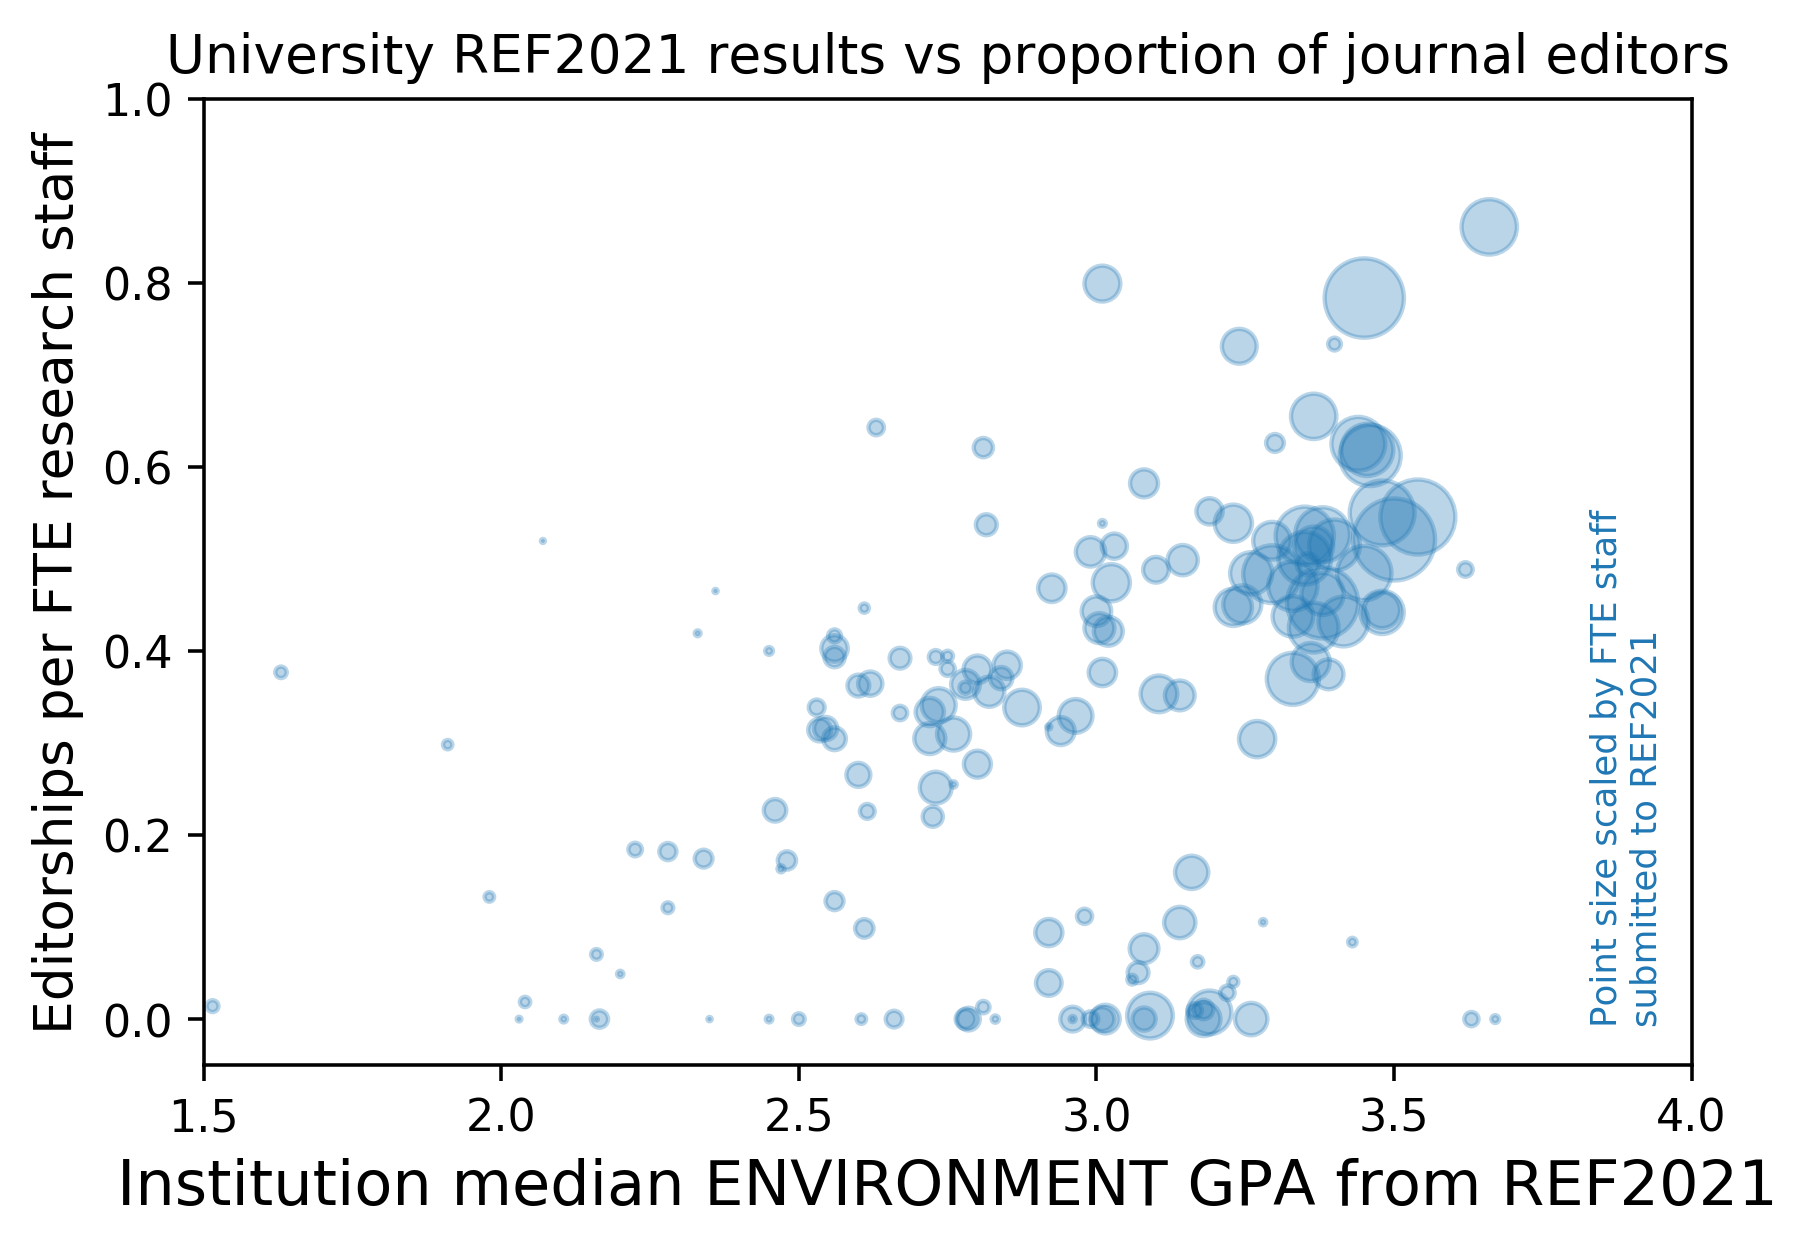
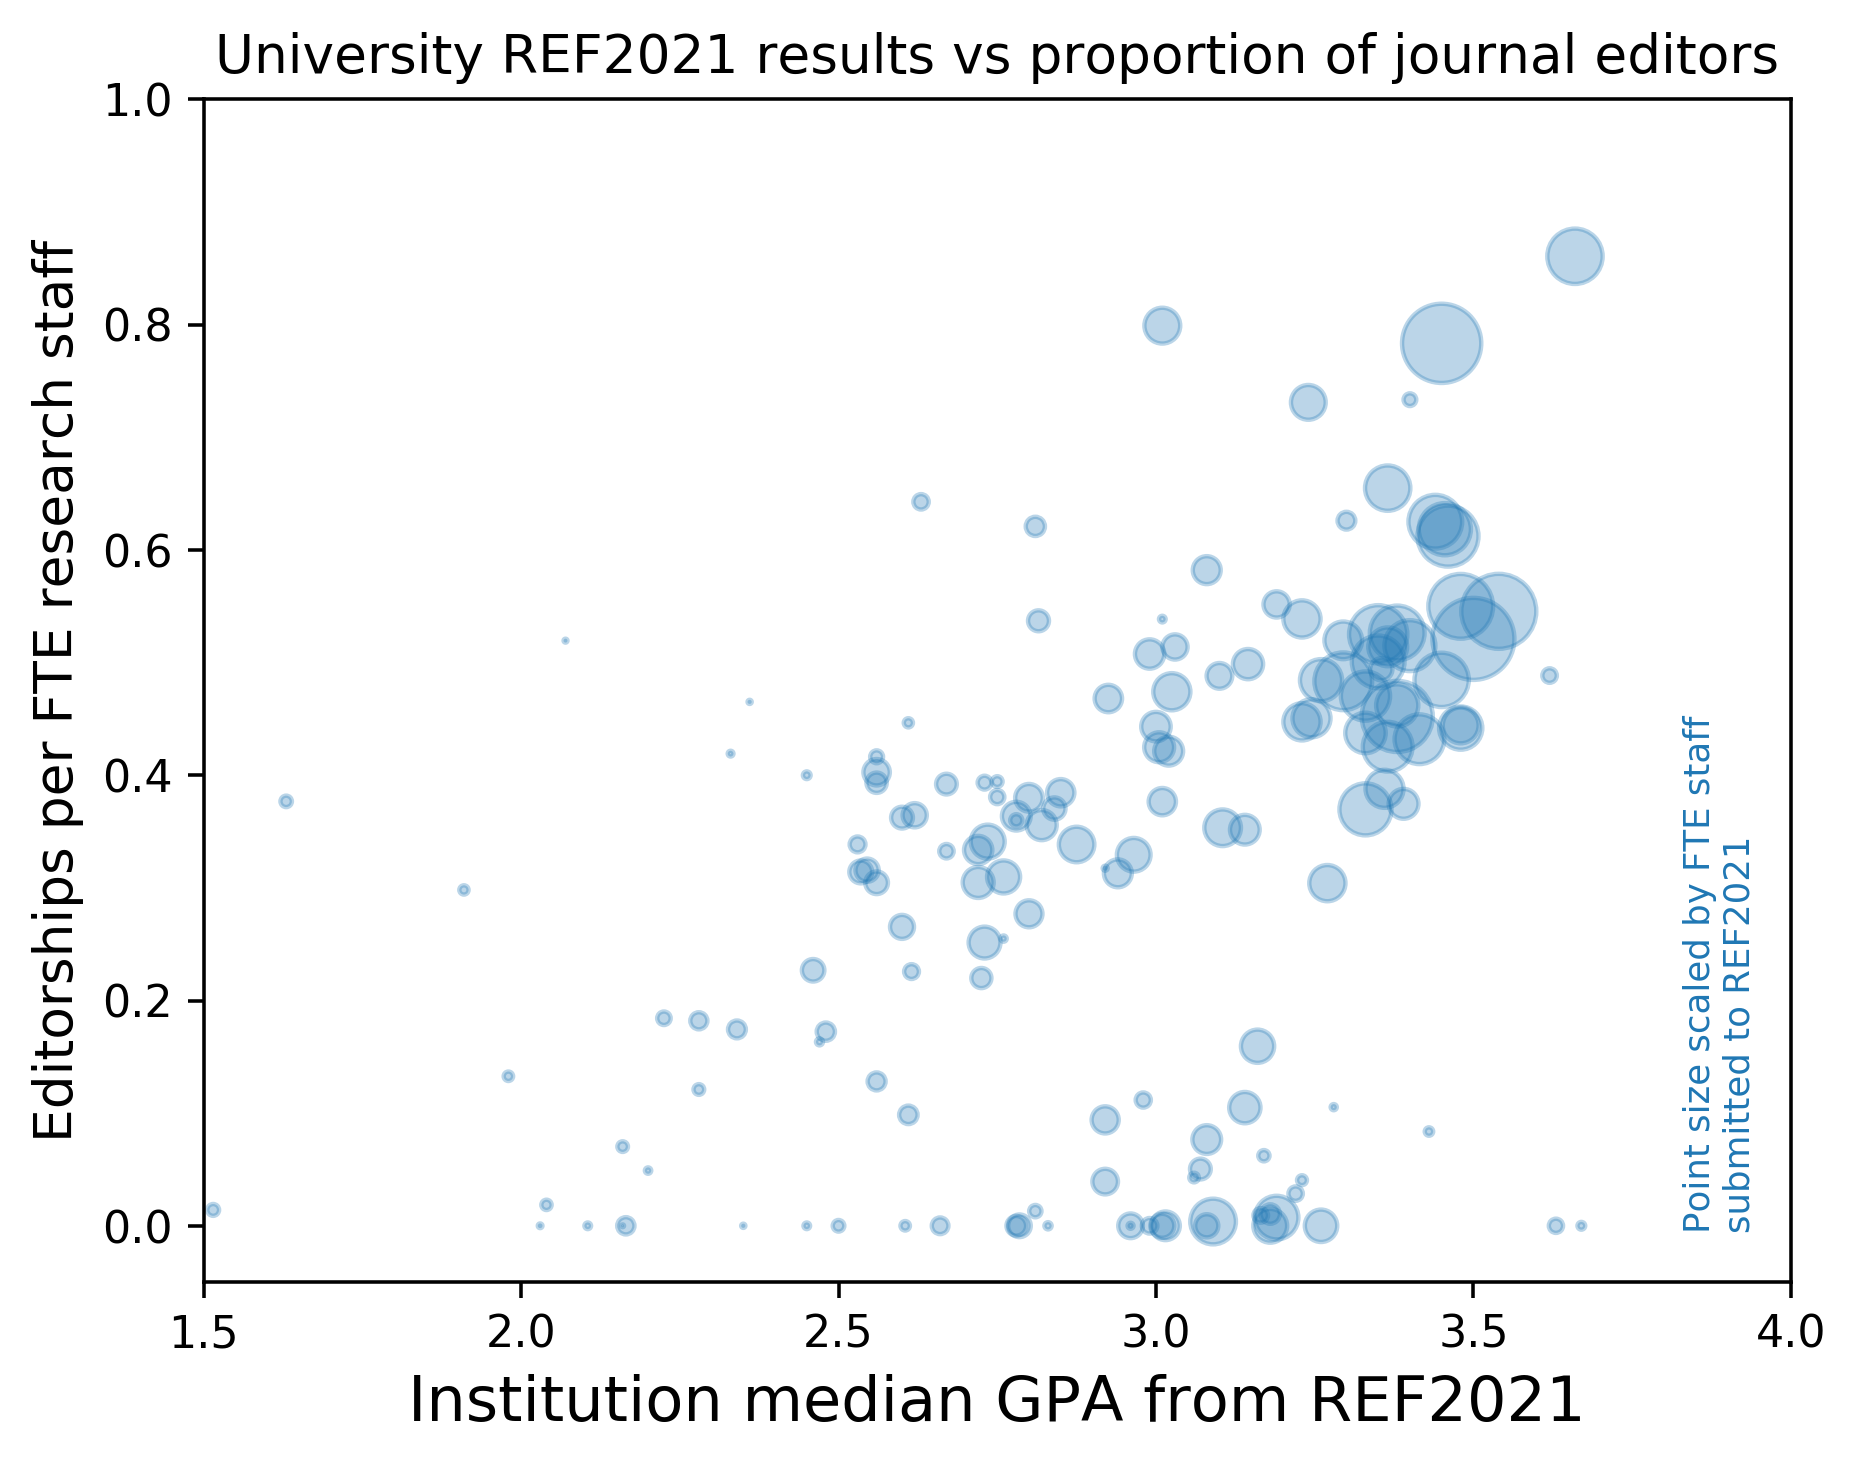
correct x axis label

diff --git a/eds2.py b/eds2.py
@@ -127,7 +127,9 @@ if SHOWSTN:
 plt.ylim([-0.05,1])
 plt.xlim([1.5,4])
 plt.ylabel('Editorships per FTE research staff',fontsize=12)
-plt.xlabel('Institution median ENVIRONMENT GPA from REF2021',fontsize=14)
+plt.xlabel('Institution median GPA from REF2021',fontsize=14)
+if SHOWENV:
+        plt.xlabel('Institution median ENVIRONMENT GPA from REF2021',fontsize=14)
 plt.title('University REF2021 results vs proportion of journal editors')
 
 if SAVEENV:
